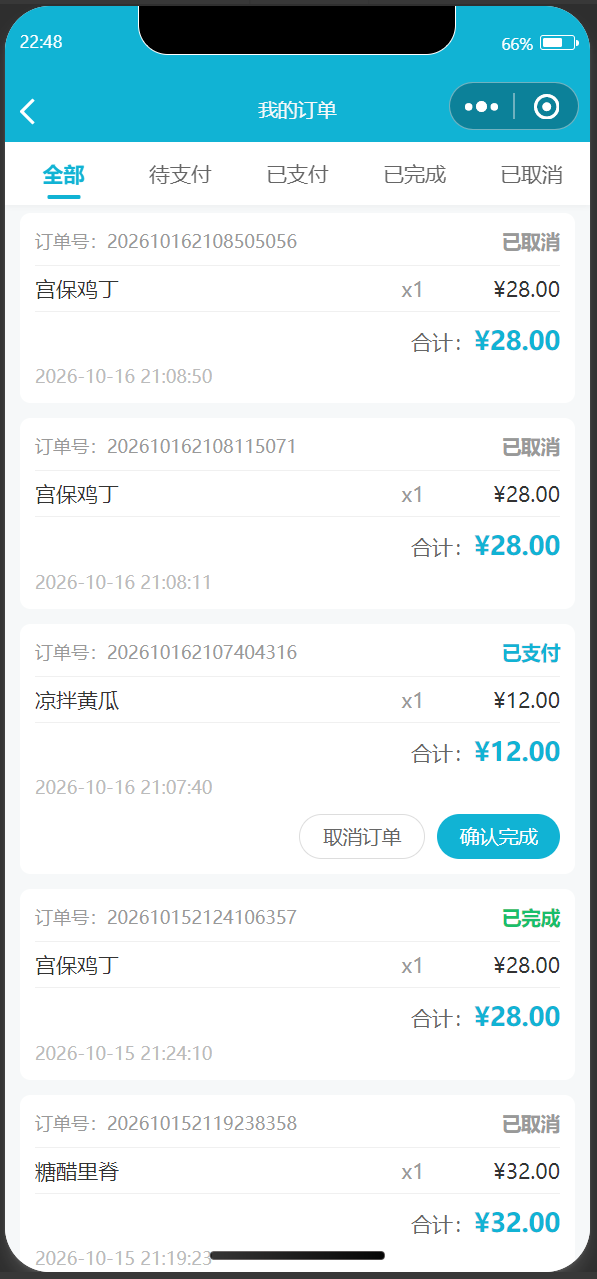
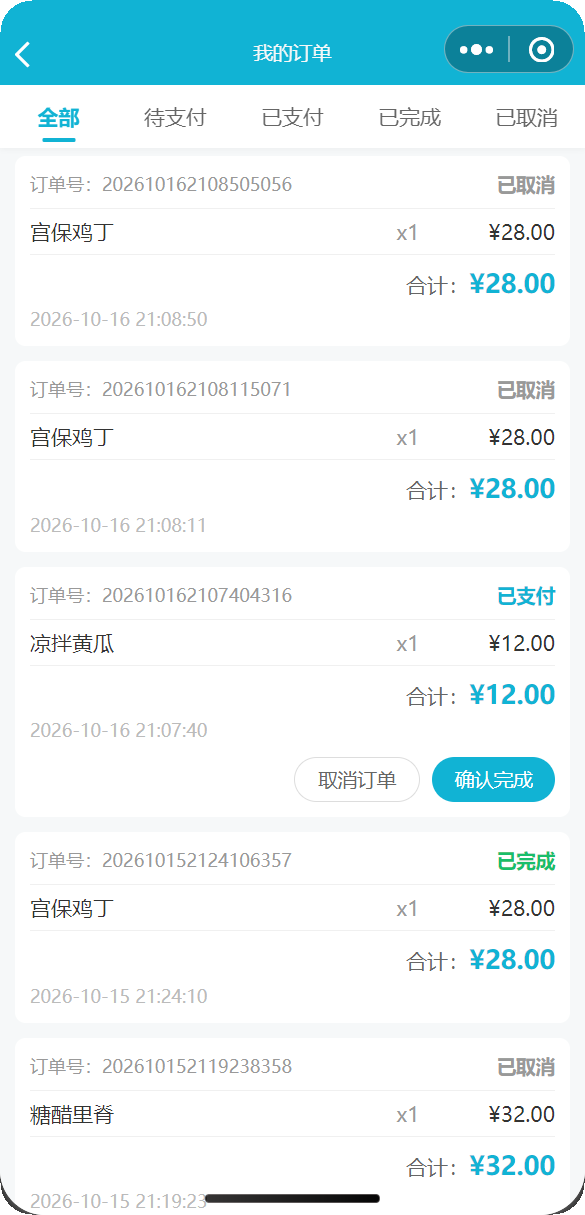
截图处理：去掉 DevTools 设备的深灰边框与刘海，统一为圆角矩形
- 原截图来自微信开发者工具 iPhone 12/13 Pro 模拟，四周带 3~5px 深灰边框（RGB 56,56,56），
  顶部还有整行深色边与刘海黑块
- 处理方式：自动识别并裁掉灰框 → 裁掉状态栏/刘海所在的顶部区域 → 输出 5.5% 半径的圆角
- 10 张统一为 585 宽（后台两张为桌面截图，保持原尺寸不处理）

diff --git a/README.md b/README.md
@@ -30,6 +30,11 @@
 | ![后台订单](assets/screenshots/07-admin-orders.png) | ![后台菜品](assets/screenshots/08-admin-dishes.png) |
 | 数据总览 · 筛选 · 一键改状态 | 上架下架 · 行内改库存 · 设为推荐 |
 
+| 关于 | 登录 |
+| --- | --- |
+| ![关于](assets/screenshots/09-about.png) | ![登录](assets/screenshots/10-login.png) |
+| 小味形象展示 · 素材一览 | 微信一键登录 · 登录即注册 |
+
 ## <img src="frontend/assets/xiaowei/diffs/xiaowei-greeting.png" width="44" alt="打招呼的小味"> 品牌形象：小味
 
 项目内置了一位贯穿小程序的 AI 点餐助手形象「**小味**」——一位戴着鲸鱼厨师帽的 Q 版少女。她不只是装饰：**她的表情会跟着对话状态变化**，也会在合适的时机出现提示你。（形象素材位于 `frontend/assets/xiaowei/`，由 AI 生成后经抠图、统一对齐与压缩处理）
@@ -71,11 +76,11 @@
 | 🍲 菜品详情 | 大图、完整介绍、辣度与**已售份数**、**可调份数加购**、售完/已下架友好提示 |
 | 🛒 购物车 | 购物车列表、加入/移除商品、**数量调整（− / +，减到 0 即移除）**、订单备注、结算下单（含库存校验与扣减）、TabBar 件数角标 |
 | 📦 订单系统 | 下单（事务保证 + **原子扣减防超卖**）、**订单状态流转**（待支付 → 已支付 → 已完成 / 已取消）、取消自动回滚库存、**按状态筛选订单** |
-| 🤖 AI 助手 | 与 DeepSeek 大模型实时对话，**流式输出（SSE，逐字显示，基础库不支持时自动回退）**，动态注入当日菜单防止编造菜品、推荐结果生成可点击菜品卡片、**快捷提问**与「正在输入」提示；支持**「跟上次一样」整单再来一单**与**「我的常点」**（基于已完成订单，下架或售完的菜自动过滤） |
+| 🤖 AI 助手 | 与 DeepSeek 大模型实时对话，**流式输出（SSE，逐字显示，基础库不支持时自动回退）**，动态注入当前在售菜单防止编造菜品、推荐结果生成可点击菜品卡片、**快捷提问**与「正在输入」提示；支持**「跟上次一样」整单再来一单**与**「我的常点」**（基于已完成订单，下架或售完的菜自动过滤） |
 | 🛡 接口防护 | AI 接口**三层限流**（身份每分钟 / 身份每天 / 全站每天总量），防止 API Key 被刷导致费用失控；超限返回 `429` + `Retry-After`，成功时带剩余额度响应头 |
 | 👤 用户中心 | **微信一键登录**（首次登录自动建号，无需注册）、**订单各状态数量概览（点击直达筛选）**、个人信息编辑、最近订单 |
 | 🔐 登录鉴权 | 微信 `code2Session` 换取 openid + HMAC-SHA256 登录令牌，**防越权、防账号伪造** |
-| 🛠 管理后台 | 独立的 PHP 后台（`/admin/`）：订单管理（筛选/改状态/看明细）、菜品管理（增删改查、**上架下架**、行内改库存价格）、数据总览；**会话登录 + CSRF 防护 + 登录失败锁定** |
+| 🛠 管理后台 | 独立的 PHP 后台（`/admin/`）：订单管理（筛选/改状态/看明细）、菜品管理（增删改查、**上架下架**、行内改库存）、数据总览；**会话登录 + CSRF 防护 + 登录失败锁定** |
 
 ## <img src="frontend/assets/xiaowei/diffs/xiaowei-thinking.png" width="44" alt="思考的小味"> 技术栈
 
@@ -93,6 +98,7 @@
 TasteWise/
 ├── 启动管理后台.bat           # 双击即打开管理后台（Windows 一键入口脚本）
 ├── 修改后台密码.bat           # 双击即改管理员密码（会自己找到 PHP）
+├── 备份数据库.bat             # 双击备份数据库（导出后自检，保留最近 20 份）
 ├── frontend/                  # 微信小程序前端
 │   ├── pages/                 # 页面（8 个）
 │   │   ├── index/             #   首页：分类 + 菜品 + AI推荐
@@ -110,15 +116,19 @@ TasteWise/
 │   │   ├── sseParser.ts       #   SSE 文本流分帧（纯逻辑，可单测）
 │   │   ├── utf8.ts            #   跨分块的增量 UTF-8 解码（纯逻辑，可单测）
 │   │   ├── cartBadge.ts       #   购物车 TabBar 角标同步
+│   │   ├── supply.ts          #   供应档位（充足 / 紧张 / 已售完）
 │   │   └── types.ts           #   全局 TS 类型定义
 │   ├── assets/
 │   │   └── xiaowei/           #   🐳 小味形象素材（透明底 PNG，见该目录 README.txt）
 │   │       ├── diffs/         #     6 张状态差分（600x600，已对齐）
-│   │       └── ui/            #     头像 / 指引立绘 / TabBar 轮廓 / 兜底图
+│   │       └── ui/            #     头像 / 指引立绘 / TabBar 图标
 │   ├── components/
 │   │   └── xiaowei-stage/     #   🐳 小味舞台区组件（状态 → 差分映射 + 动效 + 兜底）
 │   ├── images/                #  TabBar 图标等静态资源
 │   ├── app.ts / app.json / app.wxss
+│   ├── typings/               #   微信小程序 API 类型声明
+│   ├── package.json / tsconfig.json
+│   ├── sitemap.json           #   小程序页面索引配置
 │   └── project.config.json    #   开发者工具项目配置
 ├── backend/                   # PHP 后端服务
 │   ├── api/                   # RESTful 接口
@@ -135,11 +145,13 @@ TasteWise/
 │   │   ├── order.php          #   订单详情与状态流转
 │   │   ├── dishes.php         #   菜品管理（上下架 / 改库存 / 删除）
 │   │   ├── dish_edit.php      #   新增 / 编辑菜品
-│   │   ├── lib/               #   认证、布局、助手函数（URL 直访被拒）
+│   │   ├── account.php        #   账号与安全（只读）
+│   │   ├── lib/               #   认证、布局、助手、查询层（URL 直访被拒）
 │   │   └── assets/admin.css   #   后台样式
 │   ├── tools/                 # 🧰 命令行工具（不在浏览器里用，URL 直访被拒）
 │   │   ├── admin_passwd.php   #   改管理员密码：交互式输入 → 写回配置 → 回读校验
-│   │   └── backup_db.php      #   数据库备份（导出后自检，保留最近 20 份）
+│   │   ├── backup_db.php      #   数据库备份（导出后自检，保留最近 20 份）
+│   │   └── admin_launch.php   #   启动管理后台.bat 的 PHP 侧探测与输出
 │   ├── core/                  # 核心封装层
 │   │   ├── bootstrap.php      #   自动加载注册（入口只需引它一行）
 │   │   ├── DB.php             #   PDO 单例数据库操作类 + LIKE 转义
@@ -161,9 +173,10 @@ TasteWise/
 │   │   ├── database.php       #   ⚠ 数据库连接（不提交，见 database.example.php）
 │   │   ├── security.php       #   ⚠ 令牌签名密钥（不提交，见 security.example.php）
 │   │   ├── wechat.php         #   ⚠ 小程序 AppSecret（不提交，见 wechat.example.php）
-│   │   └── admin.php          #   ⚠ 管理员账号与密码哈希（不提交，见 admin.example.php）
+│   │   ├── admin.php          #   ⚠ 管理员账号与密码哈希（不提交，见 admin.example.php）
+│   │   └── *.example.php      #   配置模板（复制为上面的真实配置）
 │   ├── sql/init.sql           #   建库建表 + 演示数据
-│   └── error/                 #   HTTP 错误页（被 Apache ErrorDocument 引用）
+│   └── error/                 #   HTTP 错误页（默认未接线，可在站点配置中用 ErrorDocument 指向）
 ├── docs/                      # 📚 项目文档
 ├── assets/                    # 🖼 仓库级素材（README 截图等，不参与小程序打包）
 │   └── screenshots/           #   界面截图（文件名见「界面预览」一节）
@@ -259,7 +272,7 @@ Windows 下更方便的方式：**双击项目根目录的 `启动管理后台.b
 - **管理后台独立鉴权**：后台采用独立的会话登录（专用 Cookie `TWSESSID`，HttpOnly + SameSite=Lax + 仅 `/admin` 路径有效），与小程序令牌相互独立。密码以 bcrypt 哈希存储，登录成功与退出时都会更换会话 ID（防会话固定攻击），连续失败 5 次锁定 5 分钟（按 IP 计数，清 Cookie 无法绕过）。
 - **AI 接口限流**：`ai/chat.php`、`ai/chat_stream.php` 每次调用都真实消耗 DeepSeek 额度，因此做了三层限流（身份每分钟、身份每天、全站每天总量）。**先自增再判断**，被拒绝的请求也计数，攻击者无法靠重试绕过；计数用 `INSERT ... ON DUPLICATE KEY UPDATE` 原子自增，并发下不会漏计。
 - **AI 对话长度上限**：客户端传来的 `history` 会在服务端被清洗 —— **只放行 `user` / `assistant` 角色**（否则可以塞 `system` 消息覆盖「小味」的身份约束，属于提示词注入），并限制条数、单条长度与合计长度（第 N 轮要重发前 N-1 轮，成本是 O(N²)，不限制会让一次闲聊烧掉大量额度，而且迟早超出模型上下文窗口直接报错）。
-- **后台写操作防护**：所有改变数据的操作一律 POST + 一次性 CSRF 令牌校验；后台页面输出全部经过 HTML 转义（防存储型 XSS —— 菜品名、订单备注都可能被塞入脚本）。
+- **后台写操作防护**：所有改变数据的操作一律 POST + 会话级 CSRF 令牌校验；后台页面输出全部经过 HTML 转义（防存储型 XSS —— 菜品名、订单备注都可能被塞入脚本）。
 - **错误信息不泄露内部细节**：500 响应走 `Response::serverError()` —— 完整细节（含 SQL 报错、文件路径）**始终写入服务器错误日志**，但只对**本机回环地址**的请求回传；外部请求只得到一句通用提示。避免把表结构、列名这类信息告诉调用方。
 - **敏感配置**：`backend/config/` 下的 `apikey.php`（DeepSeek 密钥）、`database.php`（数据库密码）、`security.php`（令牌签名密钥）、`wechat.php`（小程序 AppSecret）、`admin.php`（管理员账号）均已加入 `.gitignore` **不会上传**；仓库中提供对应的 `.example` 模板，克隆后自行填写。
 - `frontend/project.private.config.json`（开发者工具私有配置）同样被忽略。

diff --git a/docs/database.md b/docs/database.md
@@ -4,7 +4,7 @@
 - 字符集：`utf8mb4` / `utf8mb4_unicode_ci`
 - 初始化脚本：`backend/sql/init.sql`（建库 + 建表 + 演示数据）
 - 访问方式：全部通过 `backend/core/DB.php`（PDO 单例）操作，禁止直接写连接
-- ✅ **本脚本已与项目实际运行库结构同步**（8 张表逐字段校验通过）
+- ✅ **表结构以 `backend/sql/init.sql` 为准**（8 张表；字段与索引已按脚本核对）
 
 ## 表结构
 
@@ -22,7 +22,7 @@
 | created_at / updated_at | DATETIME | 创建 / 更新时间 |
 | extra_field1 / extra_field2 | VARCHAR(200) | 预留扩展字段 |
 
-**唯一索引**：`openid`、`idx_username`(username)、`idx_phone`(phone)，另有普通索引 `idx_openid`。
+**唯一索引**：`openid`、`idx_username`(username)、`idx_phone`(phone)。
 
 > ⚠ 因为 `username` 与 `phone` 都有唯一索引、且列默认值是空字符串，
 > **插入用户时必须显式赋值**，否则第二个新用户会因 `Duplicate entry '' for key 'idx_phone'` 插入失败。
@@ -100,12 +100,12 @@
 | created_at / updated_at | DATETIME | 创建 / 更新时间 |
 | extra_field1 / extra_field2 | VARCHAR(200) | 预留扩展字段 |
 
-索引：`order_no` UNIQUE、`idx_user`、`idx_order_no`、`idx_user_id`、**`idx_status_created`(status, created_at)**；外键 `user_id → users.id ON DELETE CASCADE`
+索引：`order_no` UNIQUE、`idx_user_id`(user_id)、**`idx_status_created`(status, created_at)**；外键 `user_id → users.id ON DELETE CASCADE`
 
 > **`idx_status_created` 是给「超时未支付订单的懒清理」用的**：
 > 那个清理要按 `status = '0' AND created_at < 某时刻` 筛选（见 `core/OrderExpiry.php`），
 > 没有这个索引就是全表扫描；加上之后该查询走 `type=range`。
-> 单用户维度的清理还能同时用上 `idx_user`(user_id)。
+> 单用户维度的清理还能同时用上 `idx_user_id`(user_id)。
 
 **状态取值**：`0` 待支付 / `1` 已支付 / `2` 已完成 / `3` 已取消（状态流转见 [api.md](api.md)）
 
@@ -125,9 +125,9 @@
 | quantity | INT | 数量 |
 | extra_field1 / extra_field2 | VARCHAR(200) | 预留扩展字段 |
 
-索引：`idx_order`(order_id)；外键 `order_id → orders.id ON DELETE CASCADE`
+索引：`idx_order`(order_id)、`idx_dish`(dish_id)；外键 `order_id → orders.id ON DELETE CASCADE`
 
-### 7. user_id_counter（用户ID计数器表）
+### 7. user_id_counter（用户ID计数器表，历史遗留）
 
 | 字段 | 类型 | 说明 |
 | --- | --- | --- |
@@ -136,15 +136,16 @@
 | current_value | INT UNSIGNED | 当前值（初始 10000） |
 | updated_at | DATETIME | 更新时间 |
 
-- 建号时 `user/login.php` 用 `SELECT ... FOR UPDATE` 加锁后取最大值 + 1，从而保证 **10001 开头**的用户 ID，避免并发重复。
-- 初始数据：`('user_id', 10000)`，因此第一个登录建号的用户的 ID 为 10001。
+- 该表来自早期“注册时分配 10001 起用户 ID”的设计，**当前代码已不再使用它**。
+- 现在 `user/login.php` 直接 `INSERT INTO users`，用户 ID 由 `users.id` 的 `AUTO_INCREMENT` 生成；按 `init.sql` 新建库时从 **1** 开始。
+- 初始数据 `('user_id', 10000)` 仍保留在脚本中，但只是历史数据，不要依赖它分配 ID。
 
 ### 8. ai_rate_limit（AI 接口限流计数表）
 
 | 字段 | 类型 | 说明 |
 | --- | --- | --- |
 | id | INT UNSIGNED PK AI | 自增主键 |
-| bucket_key | VARCHAR(120) | 限流标识：`uid:10004` / `ip:1.2.3.4` / `global` |
+| bucket_key | VARCHAR(120) | 限流标识：`uid:1` / `ip:1.2.3.4` / `global` |
 | window_start | INT UNSIGNED | 窗口起点（Unix 时间戳，按窗口长度对齐） |
 | hits | INT UNSIGNED | 本窗口内累计请求次数 |
 | updated_at | DATETIME | 更新时间 |
@@ -173,7 +174,7 @@ users 1 ──── * cart  * ──── 1 dishes
   │                          └── * ──── 1 categories
   └── 1 ──── * orders 1 ──── * order_items
 
-user_id_counter ──（注册时分配 users.id，无外键）
+user_id_counter（历史遗留表，当前未参与业务，无外键）
 ```
 
 - `dishes.category_id → categories.id`
@@ -187,7 +188,7 @@ user_id_counter ──（注册时分配 users.id，无外键）
 - 菜品 **20 道**（含图片 URL 与描述，库存均为 999）：
   宫保鸡丁、麻婆豆腐、糖醋里脊、凉拌黄瓜、皮蛋豆腐、番茄蛋汤、酸辣汤、蛋炒饭、阳春面、冰镇柠檬水、
   鱼香肉丝、红烧茄子、口水鸡、凉拌木耳、玉米排骨汤、紫菜蛋花汤、牛肉炒饭、葱油拌面、酸梅汤、鲜榨西瓜汁
-- 用户ID计数器 1 条：`('user_id', 10000)`
+- 用户ID计数器 1 条：`('user_id', 10000)`（历史遗留，当前未使用）
 
 > 脚本**不包含**任何用户、订单、购物车数据（那是运行时业务数据，不应作为种子数据分发）。
 
@@ -197,8 +198,14 @@ user_id_counter ──（注册时分配 users.id，无外键）
 2. **`init.sql` 会 DROP 重建所有表**：仅在全新环境初始化时执行，已有数据的库请勿直接运行。
 3. **不要手工改 `orders.status` 的定义**：代码按数字 0-3 判断状态。
 4. **老库升级需要补 `dishes.is_on_sale`**：`init.sql` 是「全新初始化」脚本，不含 `ALTER`；
-   已经跑着的库执行下面这一句即可（幂等判断见下）：
+   已经跑着的库先确认字段不存在，再执行下面的 `ALTER`：
    ```sql
+   -- 返回 0 说明还没有该字段
+   SELECT COUNT(*) FROM information_schema.COLUMNS
+    WHERE TABLE_SCHEMA = 'wechat_order'
+      AND TABLE_NAME = 'dishes'
+      AND COLUMN_NAME = 'is_on_sale';
+
    ALTER TABLE `dishes`
      ADD COLUMN `is_on_sale` tinyint(4) NOT NULL DEFAULT '1'
      COMMENT '是否上架(1上架0下架)' AFTER `stock`;

diff --git a/docs/api.md b/docs/api.md
@@ -39,7 +39,7 @@
 {
   "code": 200,
   "msg": "登录成功",
-  "data": { "id": 10001, "openid": "...", "nickname": "...", "token": "eyJ1aWQiOjEwMDAxfQ.xxxx" }
+  "data": { "id": 1, "openid": "...", "nickname": "...", "token": "eyJ1aWQiOjF9.xxxx" }
 }
 ```
 
@@ -285,7 +285,7 @@ Authorization: Bearer <令牌>
 - **入参**：`{"remark": "少放辣"}`
 - **返回 data**：
 ```json
-{ "order_id": 10, "order_no": "202401011200001234", "total_price": "56.00", "status": 0 }
+{ "order_id": 10, "order_no": "202401011200001234", "total_price": 56, "status": 0 }
 ```
 - **说明**：在事务内锁定当前用户的购物车 → 读取明细并计算总价 → 写入 `orders` + `order_items`
   → **原子扣减库存**（`UPDATE dishes SET stock = stock - ? WHERE id = ? AND stock >= ?`）
@@ -478,7 +478,7 @@ data: [DONE]                                ← 结束标记（与 OpenAI 风格
     "label": "上次的订单",
     "order_no": "TWS20261017001",
     "ordered_at": "2026-10-17 12:30:00",
-    "dishes": [ { "id": 2, "name": "麻婆豆腐", "price": 18, "quantity": 1 } ],
+    "dishes": [ { "id": 2, "name": "麻婆豆腐", "price": "18.00", "quantity": 1 } ],
     "total": 18,
     "total_text": "18.00",
     "count": 1,
@@ -508,13 +508,13 @@ DeepSeek 额度**，因此都经过统一限流（`backend/core/AiRateLimit.php`
 | 每天 | 身份 | 登录用户 100 次 / 游客 30 次 | 挡住「细水长流」式的持续消耗 |
 | 每天 | 全站 | 3000 次 | 最后一道保险：无论怎么绕过前两层，当天总消耗都有上限 |
 
-**身份怎么判定**：带了有效登录令牌就按用户ID（`uid:10004`），否则按 IP（`ip:1.2.3.4`）。
-这三个接口本身免登录，所以游客也能用 AI，只是额度更低。
+**身份怎么判定**：带了有效登录令牌就按用户ID（`uid:1`），否则按 IP（`ip:1.2.3.4`）。
+这两个接口本身免登录，所以游客也能用 AI，只是额度更低。
 
 **超限时**返回：
 
 ```
-HTTP/1.1 200（本项目统一用 200 包壳，业务码在 body 里）
+HTTP/1.1 429 Too Many Requests
 Retry-After: 37
 
 { "code": 429, "msg": "请求太频繁了，请稍等一会儿再问", "data": null }
@@ -530,7 +530,7 @@ X-RateLimit-Remaining-Day: 99
 ```
 
 > 限额常量在 `core/AiRateLimit.php` 顶部，改限额不需要动数据库。
-> 三个接口共用同一套额度 —— 它们烧的是同一份 API 额度，分开计数等于给了双倍配额。
+> 两个接口共用同一套额度 —— 它们烧的是同一份 API 额度，分开计数等于给了双倍配额。
 
 ---
 

diff --git a/docs/deployment.md b/docs/deployment.md
@@ -17,7 +17,7 @@
 - **方式 A（推荐）**：在 phpstudy 面板「网站 → 创建网站」中，把域名指向 `backend/` 目录（Apache 虚拟主机根目录），如 `http://localhost`。
 - **方式 B**：直接把 `backend/` 下的内容放到默认站点目录 `phpstudy_pro/WWW/` 下。
 
-> 后端目录中包含 `error/`（错误页）、`.htaccess`（Apache 配置入口）。`phpMyAdmin4.8.5/` 为面板自带工具，无需单独部署。
+> 后端目录中的 `.htaccess` / `nginx.htaccess` 目前是空占位文件（未写规则）；`error/` 下是错误页素材，默认没有接线，需要在站点配置里用 `ErrorDocument` 指向。`phpMyAdmin4.8.5/` 为面板自带工具，无需单独部署。
 
 ### 3. 初始化数据库
 
@@ -179,7 +179,7 @@ Windows 下更省事的方式是**双击项目根目录的 `启动管理后台.b
 | 待支付订单过一会儿自己变成「已取消」 | **属于设计行为**：下单会立即扣库存，若不付款也不取消，那份库存会被永久占用。所以待支付超过 `core/OrderExpiry.php` 的 `TIMEOUT_MINUTES`（默认 15 分钟）会自动取消并把库存还回去，备注里会留下「（超时未支付，系统自动取消）」。后台订单管理页有「立刻清理」按钮可手动触发 |
 | 库存数量和预期对不上 | 按顺序排查：① 是否有超时未支付订单被自动取消后又下单（属正常）；② 后台菜品页可以直接看/改库存，确认没被人手动改过；③ 用「订单明细合计」对账 —— 后台订单详情页会自动比对明细合计与订单金额，不一致会给出警告 |
 | 小程序请求失败 | 确认 `BASE_URL` 可达；真机调试需关闭域名校验或配置合法域名 |
-| 注册报错「表不存在」 | 未执行过 `backend/sql/init.sql`（该脚本已包含 `user_id_counter` 表），请检查库结构 |
+| 接口报错「表不存在」 | 未执行过 `backend/sql/init.sql`，请检查库结构（脚本会创建全部 8 张表） |
 | 后台打开是 404 | 站点根目录没指向 `backend/`；后台在 `backend/admin/`，确认 `http://localhost/admin/login.php` 能打开 |
 | 后台登录提示「缺少配置文件」 | 没建 `backend/config/admin.php`，按 [第 4 步](#4-配置敏感信息) 复制模板并填写 |
 | 后台登录提示「用户名或密码错误」 | 密码不对。用 `php backend/tools/admin_passwd.php --show` 确认当前账号名，或直接重设密码 |
